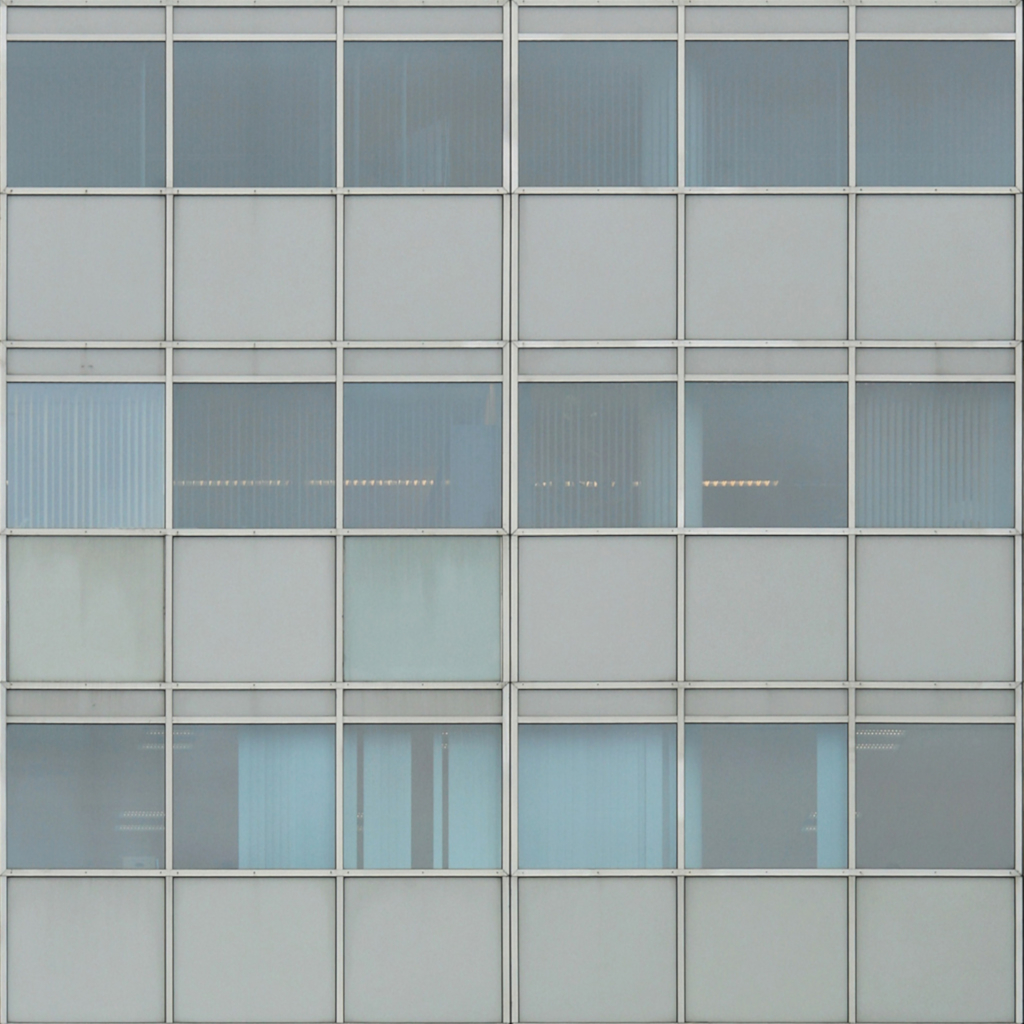
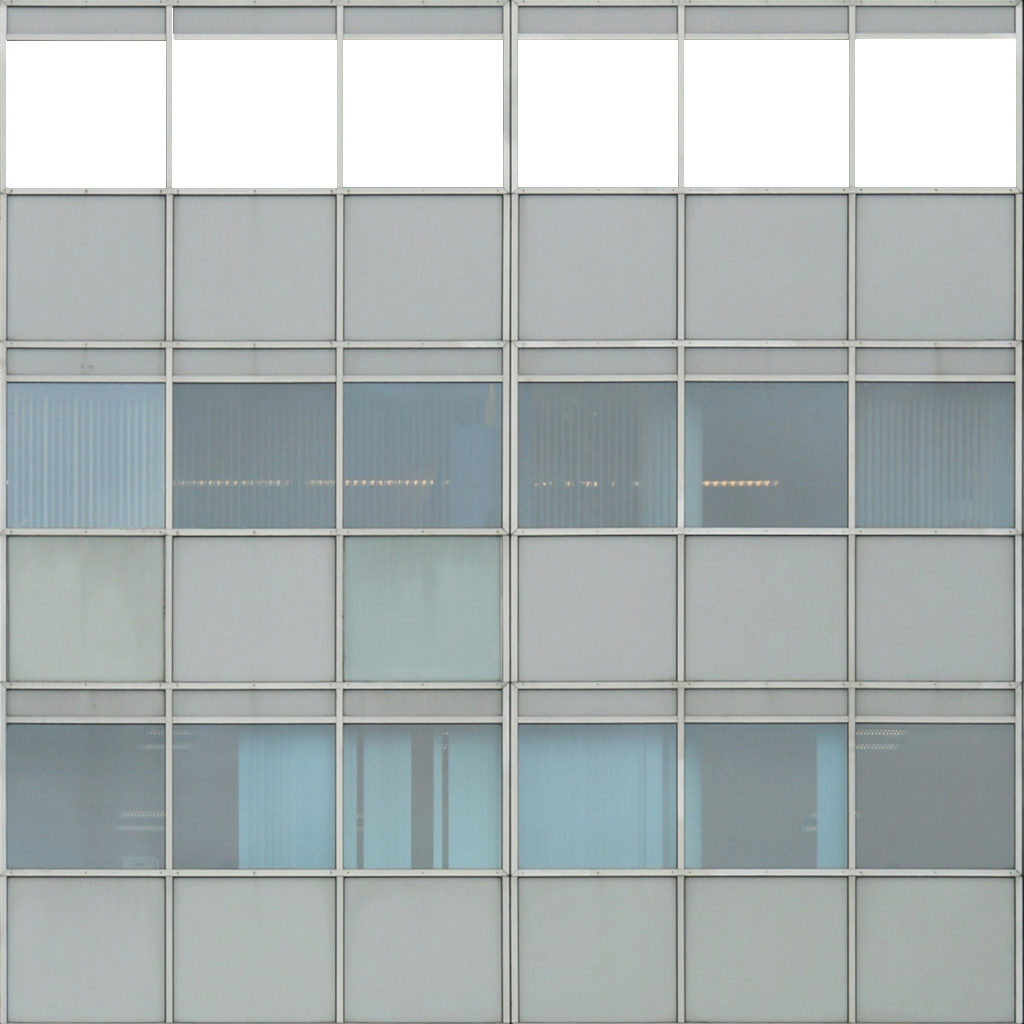
Décimo Push! la fachada del edificio derecho está casi terminada, solo falta la textura para la conexión con el edificio central.

Changed region(s): [[0.0, 0.0312, 1.0, 0.1875]]

diff --git a/Project1/Proyecto.cpp b/Project1/Proyecto.cpp
@@ -19,7 +19,7 @@ GLFWmonitor *monitors;
 GLuint VBO, VAO, EBO;
 
 //Camera
-Camera camera(glm::vec3(-11.0f, 10.0f, 0.0f));
+Camera camera(glm::vec3(0.0f, 8.0f, 0.0f));
 double	lastX = 0.0f,
 		lastY = 0.0f;
 bool firstMouse = true;
@@ -53,7 +53,7 @@ unsigned int	t_unam,
 				t_pizarron,
 				t_ladrillo,
 				t_pared,
-				t_pared_puertas,
+				t_pared_ventanas,
 				t_concreto,
 				t_texture;
 
@@ -120,7 +120,7 @@ void LoadTextures()
 	t_pizarron = generateTextures("Texturas/Pizarron.png", 1);
 	t_ladrillo = generateTextures("Texturas/Ladrillo.png", 1);
 	t_pared = generateTextures("Texturas/pared.png", 1);
-	t_pared_puertas = generateTextures("Texturas/pared_puertas.png", 1);
+	t_pared_ventanas = generateTextures("Texturas/pared_puertas.png", 1);
 	t_concreto = generateTextures("Texturas/Concreto.png", 1);
 	t_texture = generateTextures("Texturas/awesomeface.png", 1);
 	
@@ -148,7 +148,7 @@ void LoadTextures()
 	glBindTexture(GL_TEXTURE_2D, t_pared);
 
 	glActiveTexture(GL_TEXTURE7);
-	glBindTexture(GL_TEXTURE_2D, t_pared_puertas);
+	glBindTexture(GL_TEXTURE_2D, t_pared_ventanas);
 
 	glActiveTexture(GL_TEXTURE8);
 	glBindTexture(GL_TEXTURE_2D, t_concreto);
@@ -225,10 +225,10 @@ void myData()
 		 0.5f,  0.5f,  0.5f,  0.5f,  0.0f,
 		-0.5f,  0.5f,  0.5f,  0.0f,  0.0f,
 		//Paredes de puertas
-		 0.5f,  0.5f,  0.5f,   0.0f,  1.0f,  //48
-		 0.5f,  0.5f, -0.5f,  1.0f,  1.0f,
-		 0.5f, -0.5f, -0.5f,  1.0f,  0.6666f,
-		 0.5f, -0.5f,  0.5f,  0.0f,  0.6666f,
+		 0.5f,  0.5f, -0.5f,  0.0f,  1.0f, //48
+		 0.5f,  0.5f,  0.5f,  1.0f,  1.0f,
+		 0.5f, -0.5f,  0.5f,  1.0f,  0.6666f,
+		 0.5f, -0.5f, -0.5f,  0.0f,  0.6666f,
 
 		-0.5f,  0.5f, -0.5f,  0.0f,  1.0f, //52
 		-0.5f,  0.5f,  0.5f,  1.0f,  1.0f, 
@@ -381,7 +381,76 @@ void display2(Shader projectionShader) {
 		}
 		tmp = model = glm::translate(tmp, glm::vec3(0.0f, -16.0f, -44.0f));
 	}
-	
+
+	//Ventanas
+	model = glm::mat4(1.0f);//Primer Salón
+	tmp = model = glm::translate(model, glm::vec3(15.94f, 0.0f, 6.5f));
+	for (i = 0; i < 2; i++) {
+		for (j = 0; j < 4; j++) {
+			model = glm::scale(model, glm::vec3(0.11f, 4.0f, 9.0f));
+			projectionShader.setMat4("model", model);
+			projectionShader.setVec3("aColor", 1.0f, 1.0f, 1.0f);
+			projectionShader.setInt("texture1", t_pared_ventanas);
+			glDrawArrays(GL_QUADS, 48, 4);
+			tmp = model = glm::translate(tmp, glm::vec3(0.0f, 4.0f, 0.0f));
+		}
+		tmp = model = glm::translate(tmp, glm::vec3(-10.0f, -16.0f, 0.0f));
+	}
+
+	model = glm::mat4(1.0f); //Segundo Salón
+	tmp = model = glm::translate(model, glm::vec3(15.94f, 0.0f, -2.0f));
+	for (i = 0; i < 4; i++) {
+		model = glm::scale(model, glm::vec3(0.11f, 4.0f, 8.0f));
+		projectionShader.setMat4("model", model);
+		projectionShader.setVec3("aColor", 1.0f, 1.0f, 1.0f);
+		projectionShader.setInt("texture1", t_pared_ventanas);
+		glDrawArrays(GL_QUADS, 48, 4);
+		tmp = model = glm::translate(tmp, glm::vec3(0.0f, 4.0f, 0.0f));
+	}
+
+	model = glm::mat4(1.0f); //Salón central
+	tmp = model = glm::translate(model, glm::vec3(15.94f, 0.0f, -10.5f));
+	for (i = 0; i < 2; i++) {
+		for (j = 0; j < 4; j++) {
+			model = glm::scale(model, glm::vec3(0.11f, 4.0f, 9.0f));
+			projectionShader.setMat4("model", model);
+			projectionShader.setVec3("aColor", 1.0f, 1.0f, 1.0f);
+			projectionShader.setInt("texture1", t_pared_ventanas);
+			glDrawArrays(GL_QUADS, 48, 4);
+			tmp = model = glm::translate(tmp, glm::vec3(0.0f, 4.0f, 0.0f));
+		}
+		tmp = model = glm::translate(tmp, glm::vec3(-10.0f, -16.0f, 0.0f));
+	}
+
+	model = glm::mat4(1.0f); //Salón del laboratorio
+	tmp = model = glm::translate(model, glm::vec3(15.94f, 0.0f, -20.0f));
+	for (i = 0; i < 2; i++) {
+		for (j = 0; j < 4; j++) {
+			model = glm::scale(model, glm::vec3(0.11f, 4.0f, 10.0f));
+			projectionShader.setMat4("model", model);
+			projectionShader.setVec3("aColor", 1.0f, 1.0f, 1.0f);
+			projectionShader.setInt("texture1", t_pared_ventanas);
+			glDrawArrays(GL_QUADS, 48, 4);
+			tmp = model = glm::translate(tmp, glm::vec3(0.0f, 4.0f, 0.0f));
+		}
+		tmp = model = glm::translate(tmp, glm::vec3(-10.0f, -16.0f, 0.0f));
+	}
+
+	model = glm::mat4(1.0f);//último salón
+	tmp = model = glm::translate(model, glm::vec3(15.94f, 0.0f, -29.0f));
+	for (i = 0; i < 2; i++) {
+		for (j = 0; j < 4; j++) {
+			model = glm::scale(model, glm::vec3(0.11f, 4.0f, 8.0f));
+			projectionShader.setMat4("model", model);
+			projectionShader.setVec3("aColor", 1.0f, 1.0f, 1.0f);
+			projectionShader.setInt("texture1", t_pared_ventanas);
+			glDrawArrays(GL_QUADS, 48, 4);
+			tmp = model = glm::translate(tmp, glm::vec3(0.0f, 4.0f, 0.0f));
+		}
+		tmp = model = glm::translate(tmp, glm::vec3(-10.0f, -16.0f, 0.0f));
+	}
+
+
 	//Pared que da a los pasillos
 	model = glm::mat4(1.0f);
 	tmp = model = glm::translate(model, glm::vec3(8.125f, 0.0f, -21.0f));
@@ -405,7 +474,7 @@ void display2(Shader projectionShader) {
 		tmp = model = glm::translate(tmp, glm::vec3(0.0f, 4.0f, 0.0f));
 	}
 
-	model = glm::mat4(1.0f);
+	model = glm::mat4(1.0f); //último salón
 	tmp = model = glm::translate(model, glm::vec3(8.125f, 0.0f, -3.0f));
 	for (i = 0; i < 4; i++) {
 		model = glm::scale(model, glm::vec3(0.1f, 4.0f, 6.0f));
